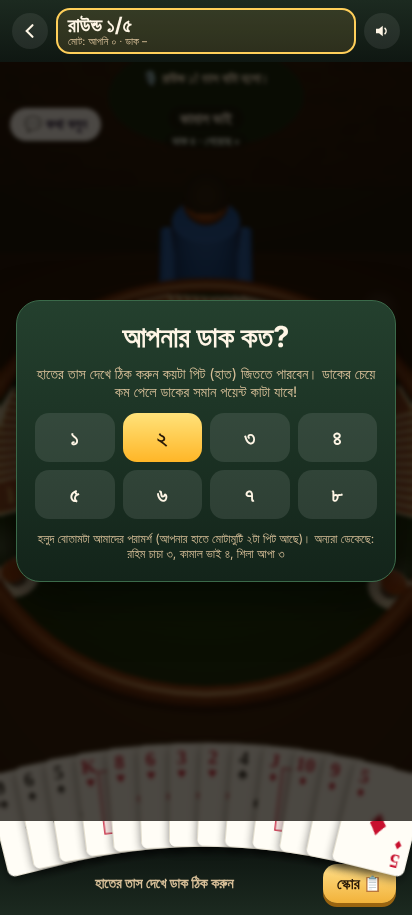
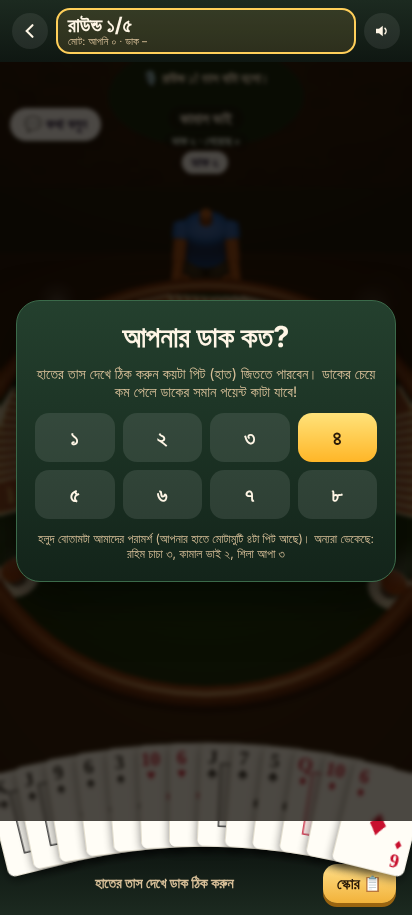
কলব্রিজ আর ২৯: টেবিলের মানুষগুলো নতুন হাড়সহ মডেলে
Claude-Session: https://claude.ai/code/session_01Sj7bcfDAG9UkavWmhC1U6s

diff --git a/games/callbridge/index.html b/games/callbridge/index.html
@@ -184,6 +184,7 @@ import { getAuth, onAuthStateChanged } from "https://www.gstatic.com/firebasejs/
 import { getFirestore, doc, getDoc, setDoc, onSnapshot, collection, query, orderBy, limit, serverTimestamp } from "https://www.gstatic.com/firebasejs/10.12.2/firebase-firestore.js";
 import { firebaseConfig, ADMIN_EMAILS } from "/js/firebase-config.js";
 import { attachGameVideos } from "/js/videos.js";
+import { makeHuman } from "/js/kh-human.js";
 
 const app = initializeApp(firebaseConfig), auth = getAuth(app), db = getFirestore(app);
 attachGameVideos(cb => onSnapshot(doc(db, 'config', 'videos'), d => cb(d.exists() ? d.data() : {}), () => {}));
@@ -274,14 +275,13 @@ const steams = Array.from({ length: 12 }, (_, i) => { const s = new THREE.Sprite
 // প্রতিপক্ষের মানুষ (বসে আছে)
 const SEATPOS = [[0, 5.4], [5.4, 0], [0, -5.4], [-5.4, 0]];
 const PEOPLE = [null, { n: 'রহিম চাচা', shirt: '#e8e4d8', skin: '#a86b3c', cap: true }, { n: 'কামাল ভাই', shirt: '#2563eb', skin: '#8d5524' }, { n: 'শিলা আপা', shirt: '#be185d', skin: '#c68642', hair: true }];
-function person(i) {
-  const P = PEOPLE[i], [x, z] = SEATPOS[i], g = new THREE.Group(); g.position.set(x, -1.5, z); g.lookAt(0, -1.5, 0);
-  const torso = new THREE.Mesh(new THREE.CylinderGeometry(.75, .9, 2.1, 16), M(P.shirt)); torso.position.y = 1.3; torso.castShadow = true; g.add(torso);
-  const head = new THREE.Mesh(new THREE.SphereGeometry(.5, 20, 16), M(P.skin, { roughness: .6 })); head.position.y = 2.85; head.castShadow = true; g.add(head);
-  const hair = new THREE.Mesh(new THREE.SphereGeometry(.52, 20, 16, 0, Math.PI * 2, 0, P.hair ? Math.PI * .62 : Math.PI / 2), M(P.cap ? '#f5f5f5' : '#151515')); hair.position.y = 2.9; g.add(hair);
-  if (P.hair) { const bun = new THREE.Mesh(new THREE.SphereGeometry(.26, 12, 10), M('#151515')); bun.position.set(0, 2.9, -.5); g.add(bun); }
-  [-1, 1].forEach(s => { const e = new THREE.Mesh(new THREE.SphereGeometry(.06, 8, 6), M('#111')); e.position.set(s * .18, 2.92, .45); g.add(e); const arm = new THREE.Mesh(new THREE.CylinderGeometry(.18, .2, 1.6, 10), M(P.shirt)); arm.position.set(s * .85, 1.6, .55); arm.rotation.x = -1.1; arm.castShadow = true; g.add(arm); });
-  scene.add(g); return { g, head };
+function person(i) { // হাড়সহ মানুষ, টেবিলে বসে তাস ধরে আছে
+  const P = PEOPLE[i], [x, z] = SEATPOS[i];
+  const h = makeHuman(THREE, { skin: P.skin, shirt: P.shirt, shorts: '#3b3b3b', trim: P.shirt, number: '', hairStyle: P.hair ? 0 : (i % 2), mustache: !!P.cap, scale: 2.5 });
+  h.root.position.set(x, -1.55, z); h.root.lookAt(0, -1.55, 0); h.snap({ sit: 1, reach: .5, hold: 0, lean: -.12 }); h.look = { x: 0, z: 0 };
+  if (P.cap) { const c = new THREE.Mesh(new THREE.SphereGeometry(.125, 18, 10, 0, Math.PI * 2, 0, Math.PI * .45), M('#f5f5f5')); c.position.y = .1; h.head.add(c); }
+  if (P.hair) { const bun = new THREE.Mesh(new THREE.SphereGeometry(.07, 12, 10), M('#151515')); bun.position.set(0, .1, -.13); h.head.add(bun); const long = new THREE.Mesh(new THREE.CapsuleGeometry(.1, .18, 4, 10), M('#151515')); long.position.set(0, -.04, -.08); h.head.add(long); }
+  scene.add(h.root); return { g: h.root, head: h.head, h };
 }
 const people = [null, person(1), person(2), person(3)];
 // প্রতিপক্ষের হাতে উল্টানো তাস
@@ -471,6 +471,7 @@ function loop(ts) {
   anims = anims.filter(a => { a.t += dt / a.dur; const k = Math.min(1, a.t), e = ease(k); a.m.position.lerpVectors(a.from, a.to, e); a.m.position.y += Math.sin(k * Math.PI) * (a.hop || 0); a.m.rotation.set(a.r0.x + (a.r1.x - a.r0.x) * e, a.r0.y + (a.r1.y - a.r0.y) * e, a.r0.z + (a.r1.z - a.r0.z) * e); if (k >= 1) { a.res(); return false; } return true; });
   steams.forEach(s => { const u = s.userData, k = ((T * .35 + u.p) % 1); s.position.set(u.x + Math.sin(T + u.p) * .1, .35 + k * 1.3, u.z); s.scale.setScalar(.3 + k * .7); s.material.opacity = Math.sin(k * Math.PI) * .35; });
   people.forEach((p, i) => { if (!p) return; p.head.rotation.y = Math.sin(T * .6 + i) * .25 + (G && G.turn === i && G.phase === 'play' ? Math.sin(T * 4) * .08 : 0); p.head.position.y = 2.85 + (G && G.turn === i ? Math.sin(T * 5) * .03 : 0); });
+  people.forEach((p, k) => { if (p) { p.h.set({ shout: p.talkT > 0 ? 1 : 0 }); p.talkT = (p.talkT || 0) - dt; p.h.update(dt, 0); } });
   if (renderer) renderer.render(scene, cam); requestAnimationFrame(loop);
 }
 lv = store.get('kh-cb-lv', 1); resize(); seatUI();

diff --git a/games/twentynine/index.html b/games/twentynine/index.html
@@ -194,6 +194,7 @@ import { getAuth, onAuthStateChanged } from "https://www.gstatic.com/firebasejs/
 import { getFirestore, doc, getDoc, setDoc, onSnapshot, collection, query, orderBy, limit, serverTimestamp } from "https://www.gstatic.com/firebasejs/10.12.2/firebase-firestore.js";
 import { firebaseConfig, ADMIN_EMAILS } from "/js/firebase-config.js";
 import { attachGameVideos } from "/js/videos.js";
+import { makeHuman } from "/js/kh-human.js";
 
 const app = initializeApp(firebaseConfig), auth = getAuth(app), db = getFirestore(app);
 attachGameVideos(cb => onSnapshot(doc(db, 'config', 'videos'), d => cb(d.exists() ? d.data() : {}), () => {}));
@@ -284,14 +285,13 @@ const steams = Array.from({ length: 12 }, (_, i) => { const s = new THREE.Sprite
 // প্রতিপক্ষের মানুষ (বসে আছে)
 const SEATPOS = [[0, 5.4], [5.4, 0], [0, -5.4], [-5.4, 0]];
 const PEOPLE = [null, { n: 'রহিম চাচা', shirt: '#e8e4d8', skin: '#a86b3c', cap: true }, { n: 'কামাল ভাই', shirt: '#2563eb', skin: '#8d5524' }, { n: 'শিলা আপা', shirt: '#be185d', skin: '#c68642', hair: true }];
-function person(i) {
-  const P = PEOPLE[i], [x, z] = SEATPOS[i], g = new THREE.Group(); g.position.set(x, -1.5, z); g.lookAt(0, -1.5, 0);
-  const torso = new THREE.Mesh(new THREE.CylinderGeometry(.75, .9, 2.1, 16), M(P.shirt)); torso.position.y = 1.3; torso.castShadow = true; g.add(torso);
-  const head = new THREE.Mesh(new THREE.SphereGeometry(.5, 20, 16), M(P.skin, { roughness: .6 })); head.position.y = 2.85; head.castShadow = true; g.add(head);
-  const hair = new THREE.Mesh(new THREE.SphereGeometry(.52, 20, 16, 0, Math.PI * 2, 0, P.hair ? Math.PI * .62 : Math.PI / 2), M(P.cap ? '#f5f5f5' : '#151515')); hair.position.y = 2.9; g.add(hair);
-  if (P.hair) { const bun = new THREE.Mesh(new THREE.SphereGeometry(.26, 12, 10), M('#151515')); bun.position.set(0, 2.9, -.5); g.add(bun); }
-  [-1, 1].forEach(s => { const e = new THREE.Mesh(new THREE.SphereGeometry(.06, 8, 6), M('#111')); e.position.set(s * .18, 2.92, .45); g.add(e); const arm = new THREE.Mesh(new THREE.CylinderGeometry(.18, .2, 1.6, 10), M(P.shirt)); arm.position.set(s * .85, 1.6, .55); arm.rotation.x = -1.1; arm.castShadow = true; g.add(arm); });
-  scene.add(g); return { g, head };
+function person(i) { // হাড়সহ মানুষ, টেবিলে বসে তাস ধরে আছে
+  const P = PEOPLE[i], [x, z] = SEATPOS[i];
+  const h = makeHuman(THREE, { skin: P.skin, shirt: P.shirt, shorts: '#3b3b3b', trim: P.shirt, number: '', hairStyle: P.hair ? 0 : (i % 2), mustache: !!P.cap, scale: 2.5 });
+  h.root.position.set(x, -1.55, z); h.root.lookAt(0, -1.55, 0); h.snap({ sit: 1, reach: .5, hold: 0, lean: -.12 }); h.look = { x: 0, z: 0 };
+  if (P.cap) { const c = new THREE.Mesh(new THREE.SphereGeometry(.125, 18, 10, 0, Math.PI * 2, 0, Math.PI * .45), M('#f5f5f5')); c.position.y = .1; h.head.add(c); }
+  if (P.hair) { const bun = new THREE.Mesh(new THREE.SphereGeometry(.07, 12, 10), M('#151515')); bun.position.set(0, .1, -.13); h.head.add(bun); const long = new THREE.Mesh(new THREE.CapsuleGeometry(.1, .18, 4, 10), M('#151515')); long.position.set(0, -.04, -.08); h.head.add(long); }
+  scene.add(h.root); return { g: h.root, head: h.head, h };
 }
 const people = [null, person(1), person(2), person(3)];
 // প্রতিপক্ষের হাতে উল্টানো তাস
@@ -525,6 +525,7 @@ function loop(ts) {
   anims = anims.filter(a => { a.t += dt / a.dur; const k = Math.min(1, a.t), e = ease(k); a.m.position.lerpVectors(a.from, a.to, e); a.m.position.y += Math.sin(k * Math.PI) * (a.hop || 0); a.m.rotation.set(a.r0.x + (a.r1.x - a.r0.x) * e, a.r0.y + (a.r1.y - a.r0.y) * e, a.r0.z + (a.r1.z - a.r0.z) * e); if (k >= 1) { a.res(); return false; } return true; });
   steams.forEach(s => { const u = s.userData, k = ((T * .35 + u.p) % 1); s.position.set(u.x + Math.sin(T + u.p) * .1, .35 + k * 1.3, u.z); s.scale.setScalar(.3 + k * .7); s.material.opacity = Math.sin(k * Math.PI) * .35; });
   people.forEach((p, i) => { if (!p) return; p.head.rotation.y = Math.sin(T * .6 + i) * .25 + (G && G.turn === i && G.phase === 'play' ? Math.sin(T * 4) * .08 : 0); p.head.position.y = 2.85 + (G && G.turn === i ? Math.sin(T * 5) * .03 : 0); });
+  people.forEach((p, k) => { if (p) { p.h.set({ shout: p.talkT > 0 ? 1 : 0 }); p.talkT = (p.talkT || 0) - dt; p.h.update(dt, 0); } });
   if (renderer) renderer.render(scene, cam); requestAnimationFrame(loop);
 }
 lv = store.get('kh-29-lv', 1); resize(); seatUI();
